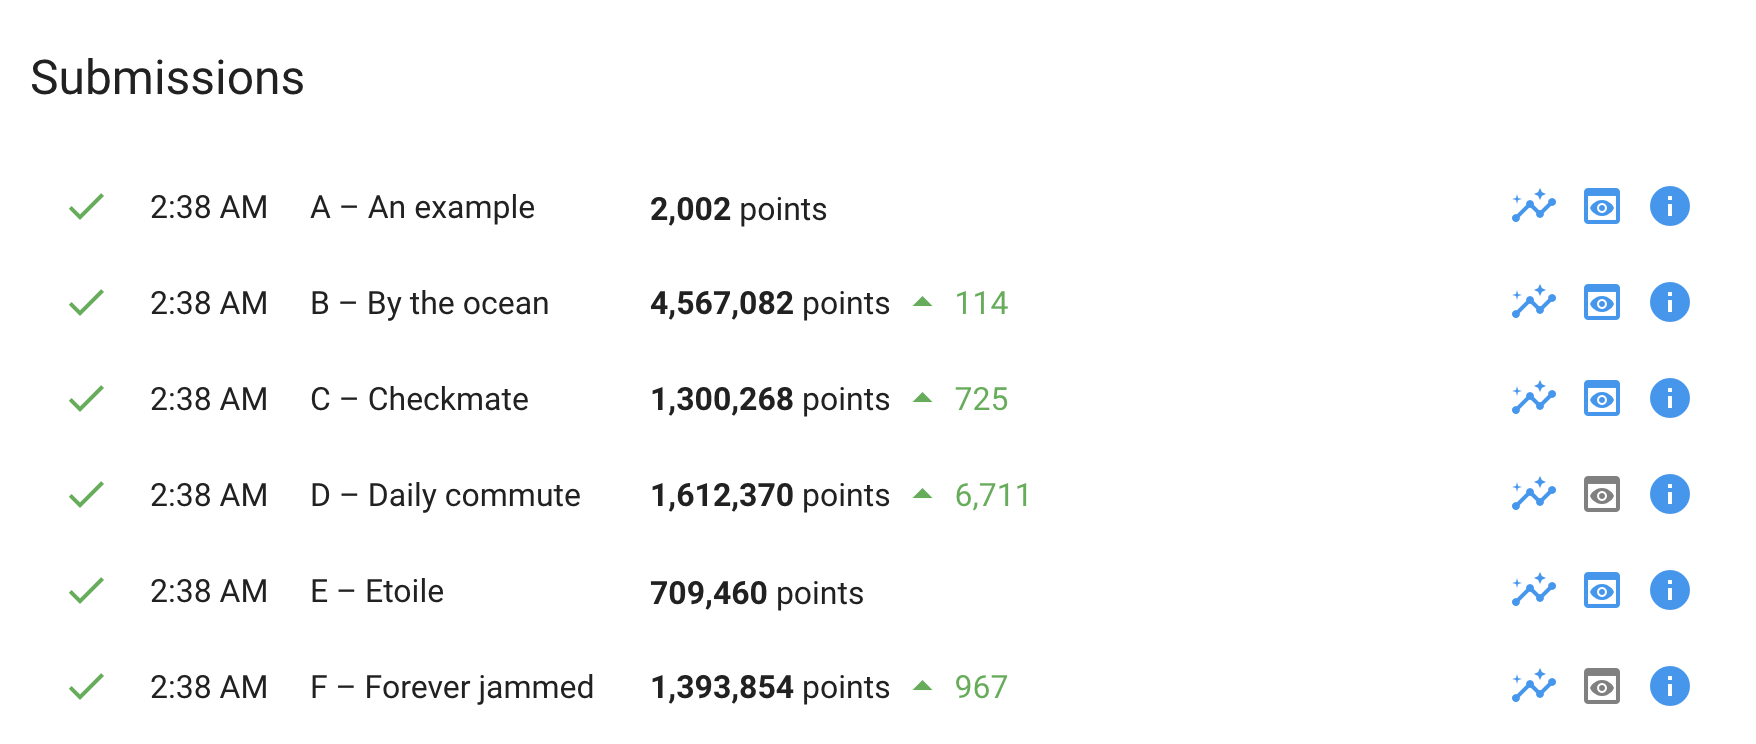
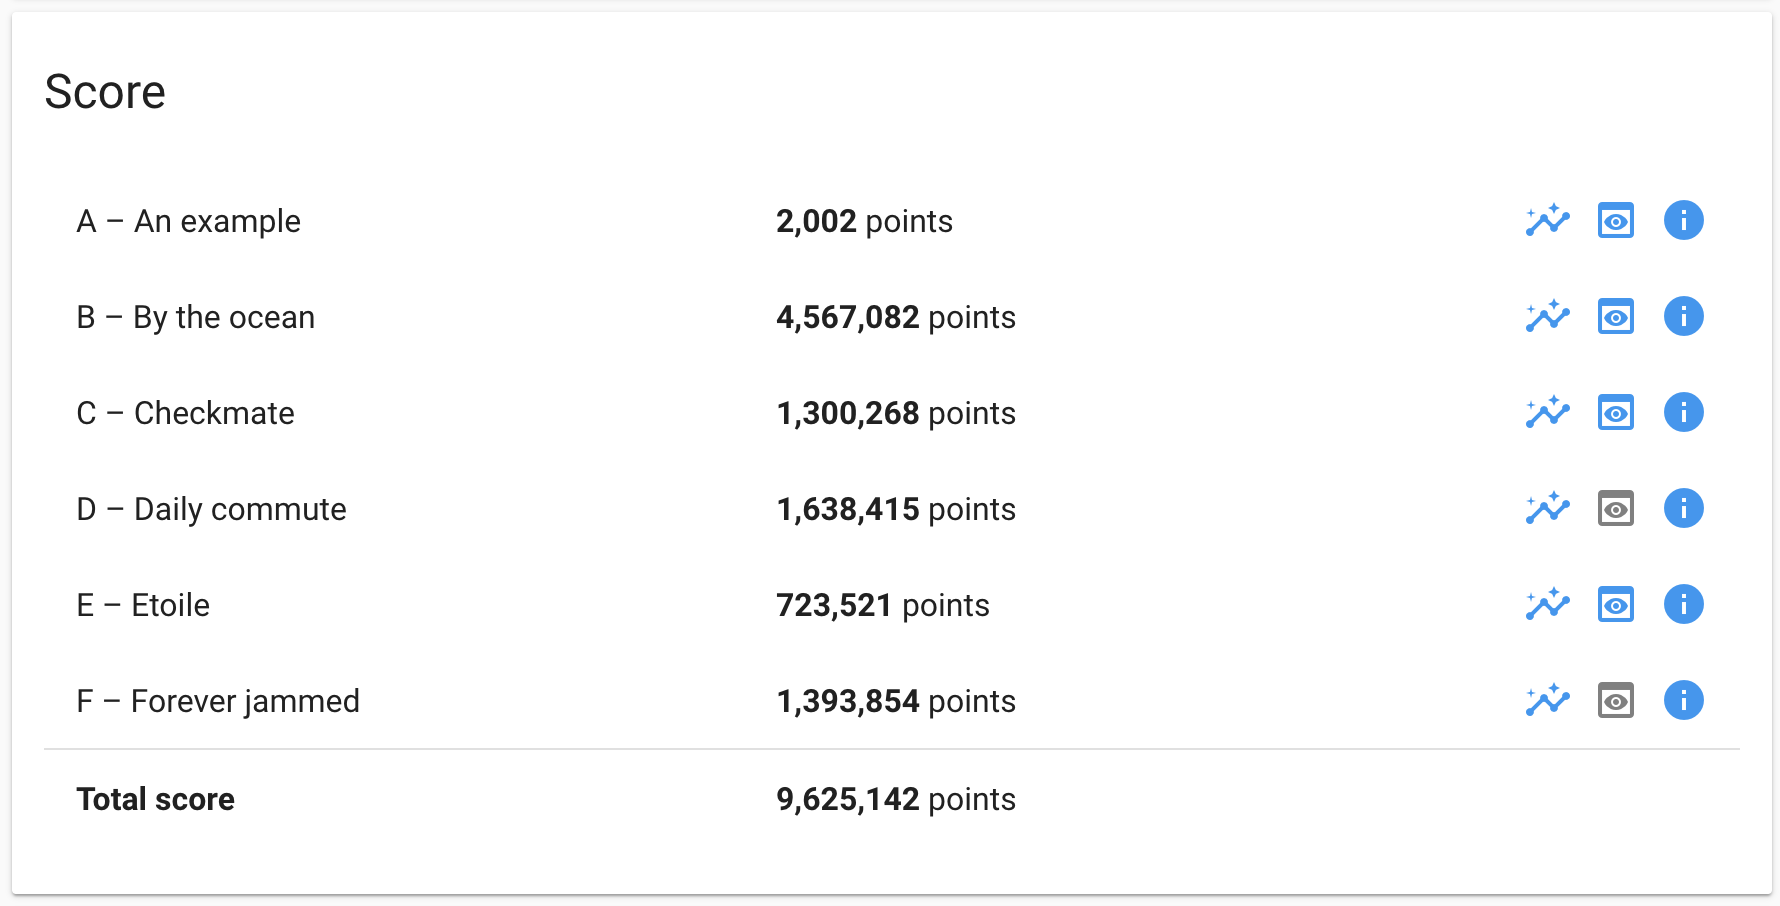
Update README.md

diff --git a/README.md b/README.md
@@ -12,11 +12,11 @@ One more attempt...
 
 ![all](all.png "All")
 
-We are `187/2611` in Extended Run
+We are `180/2626` in Extended Run
 
 ![russia](russia.png "Russia")
 
-And we are `12/58` in Russia
+And we are `13/59` in Russia
 
 ## C++ requirements
 
@@ -57,11 +57,11 @@ $ ./hashcode --input=../../input/a.txt \
 | 1 | A – An example | 2 002 |
 | 2 | B – By the ocean | 4 567 082 |
 | 3 | C – Checkmate | 1 300 268 |
-| 4 | D – Daily commute | 1 612 370 |
-| 5 | E – Etoile | 709 460 |
+| 4 | D – Daily commute | 1 638 415 |
+| 5 | E – Etoile | 723 521 |
 | 6 | F – Forever jammed | 1 393 854 |
 
-    Total: 9 585 036 points
+    Total: 9 625 142 points
 
 ## Building C# code
 [.NET 5.0](https://dotnet.microsoft.com/download/dotnet/5.0) is required to build C# code located in `./csharp` folder. It's a completely separated version of the solution and not related in any way to a C++ code.
@@ -113,4 +113,4 @@ $ dotnet run -i input.txt -o ./output
 
 ## Our final score
 
-    Total: 9 599 097 points
+    Total: 9 625 142 points
